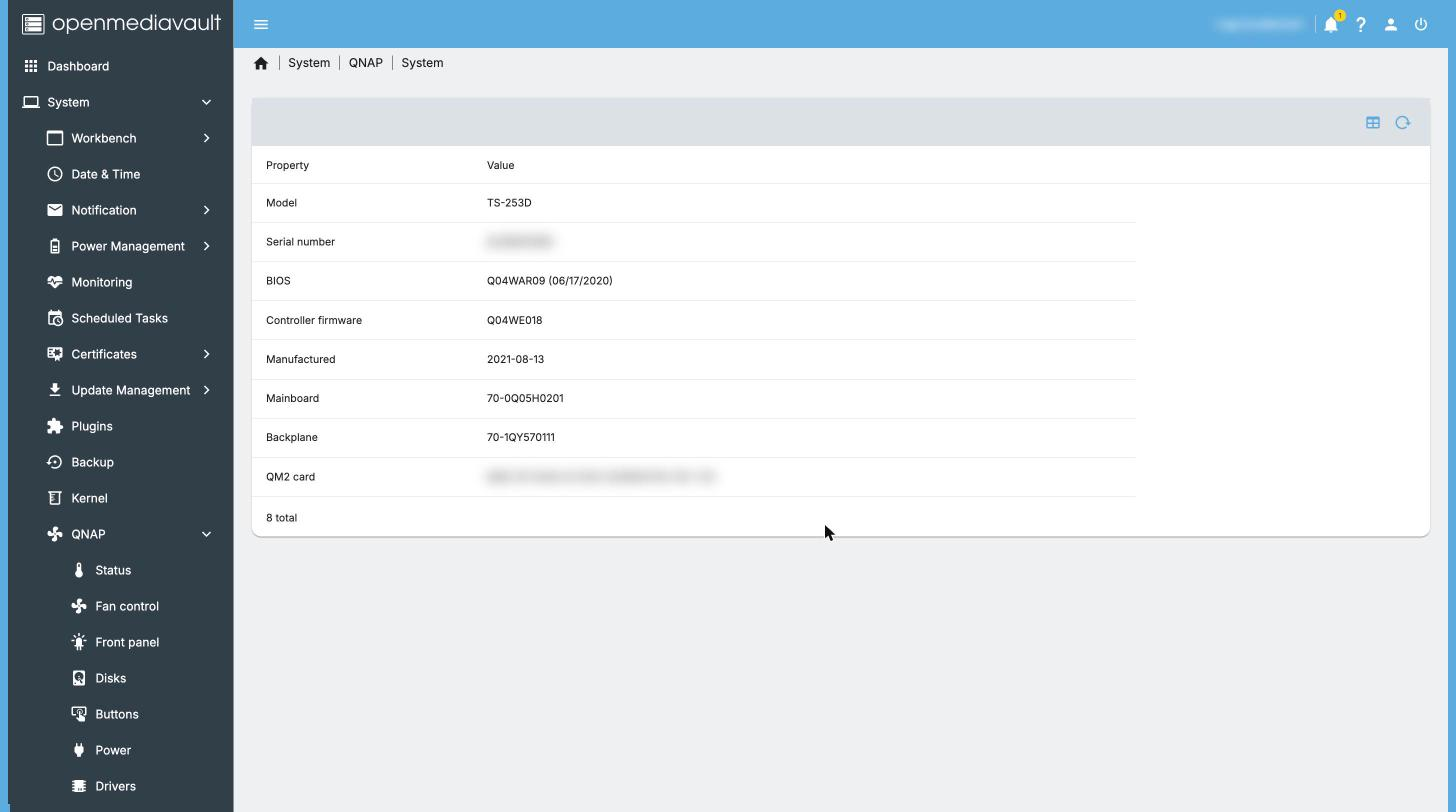
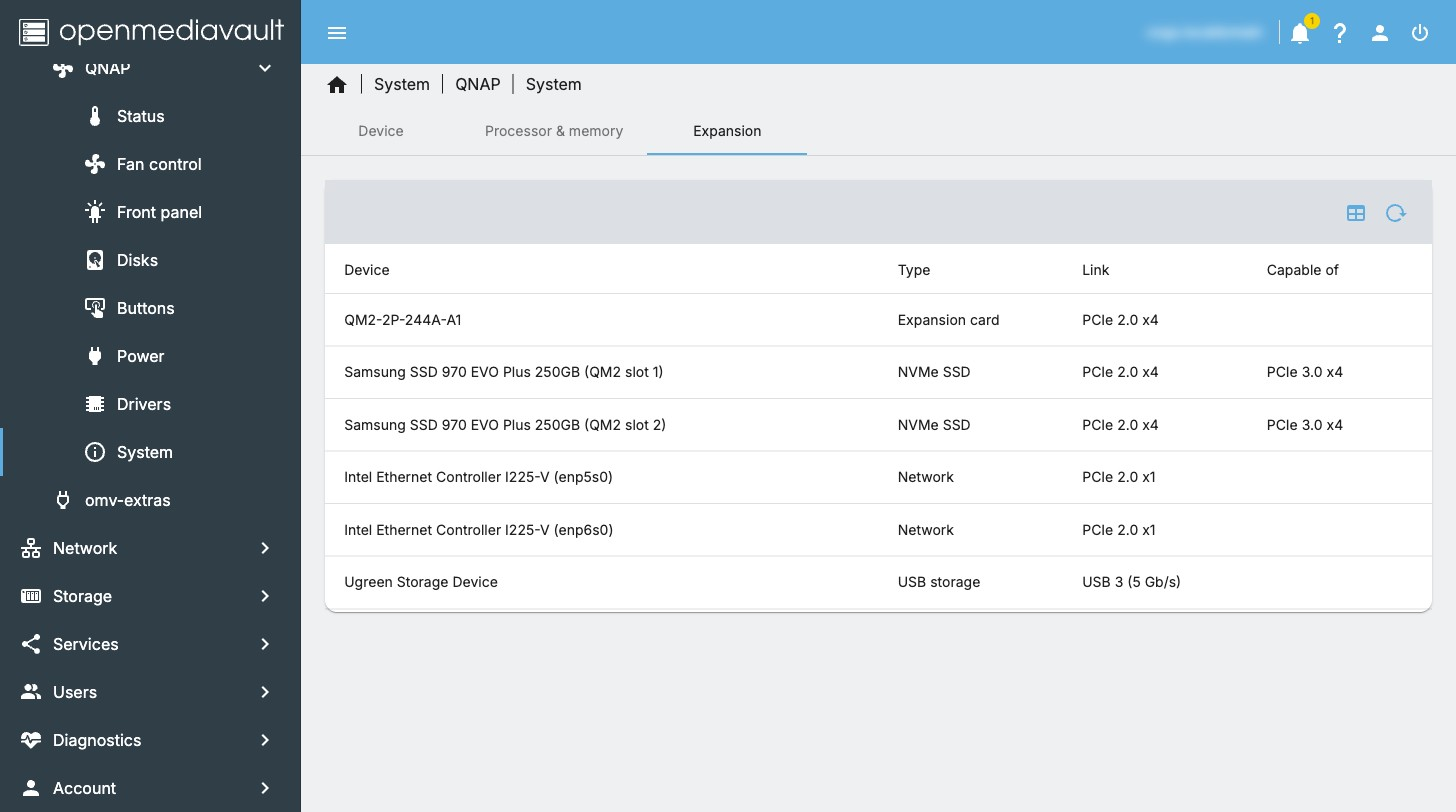
Screenshots of the System page Processor & memory and Expansion tabs

diff --git a/README.md b/README.md
@@ -133,9 +133,10 @@ blurred.
 | ![Fan control](docs/images/fan-control.jpg) Fan control | ![Custom fan curve](docs/images/fan-custom.jpg) Custom fan curve |
 | ![Front panel](docs/images/front-panel.jpg) Front panel | ![Disks](docs/images/disks.jpg) Disks |
 | ![Buttons](docs/images/buttons.jpg) Buttons | ![Power](docs/images/power.jpg) Power |
-| ![Drivers](docs/images/drivers.jpg) Drivers | ![System](docs/images/system.jpg) System |
+| ![Drivers](docs/images/drivers.jpg) Drivers | ![Device widget](docs/images/dashboard-device.jpg) Device widget |
+| ![System: processor and memory](docs/images/system-memory.jpg) System › Processor & memory | ![System: expansion](docs/images/system.jpg) System › Expansion |
 | ![Temperature graphs](docs/images/graphs-temperatures.jpg) Temperature graphs | ![Fan speed graphs](docs/images/graphs-fan-speed.jpg) Fan speed graphs |
-| ![Notification events](docs/images/notifications.jpg) Notification events | ![Device widget](docs/images/dashboard-device.jpg) Device widget |
+| ![Notification events](docs/images/notifications.jpg) Notification events | |
 
 <img src="docs/images/navbar.jpg" alt="Navigation" width="180"> Navigation
 
